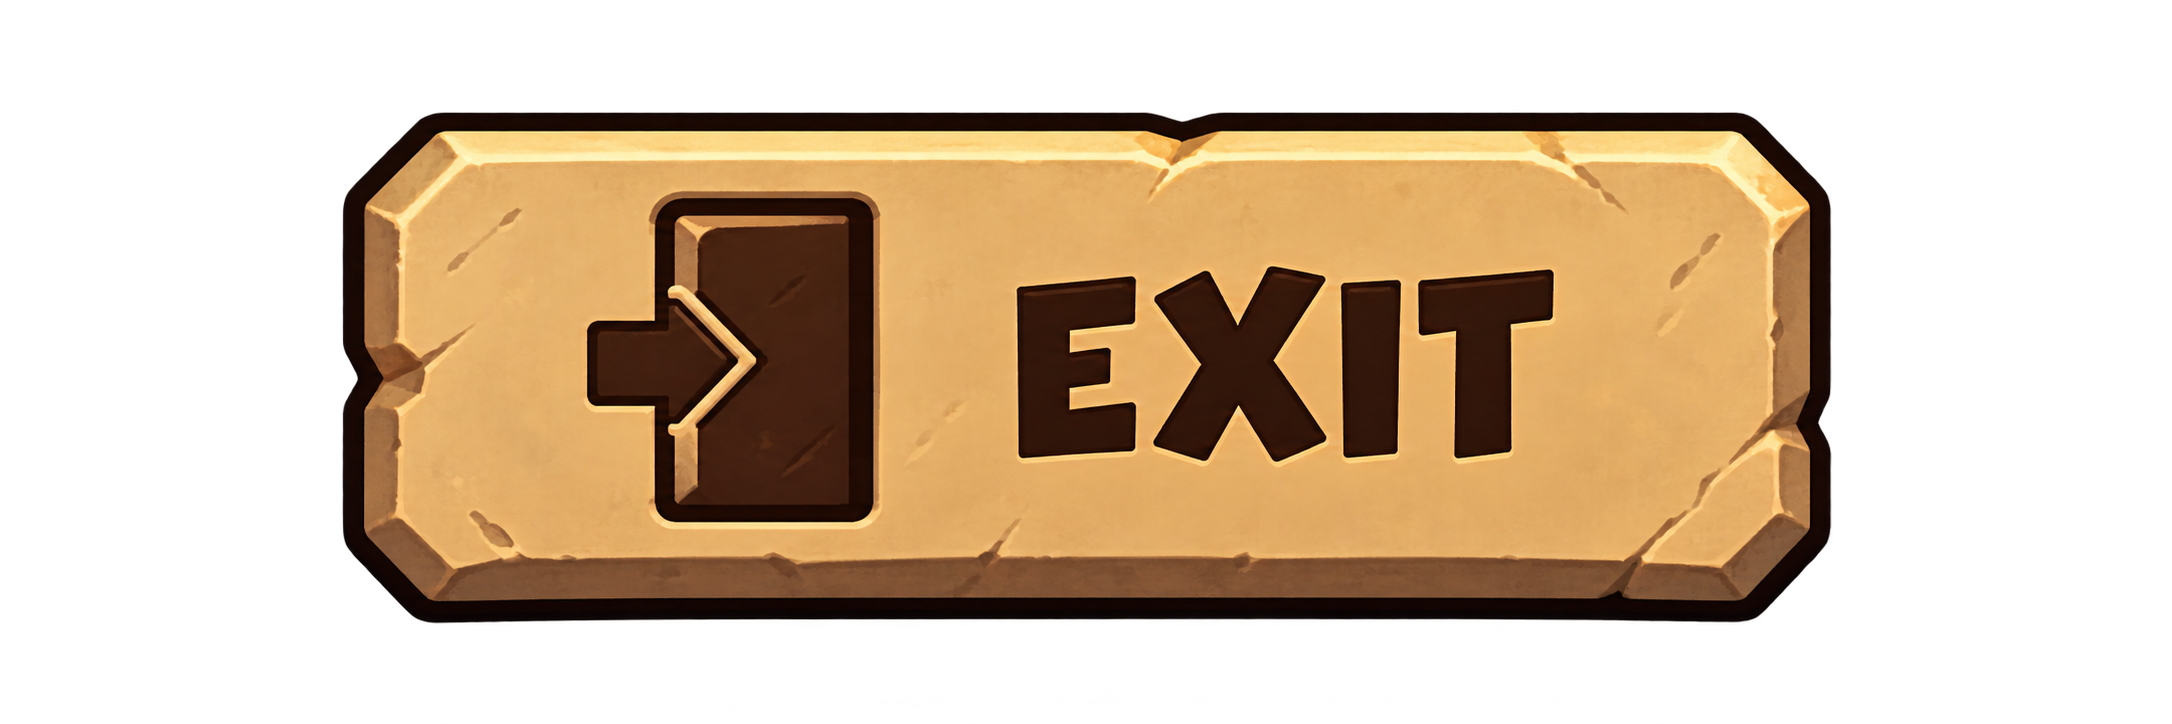
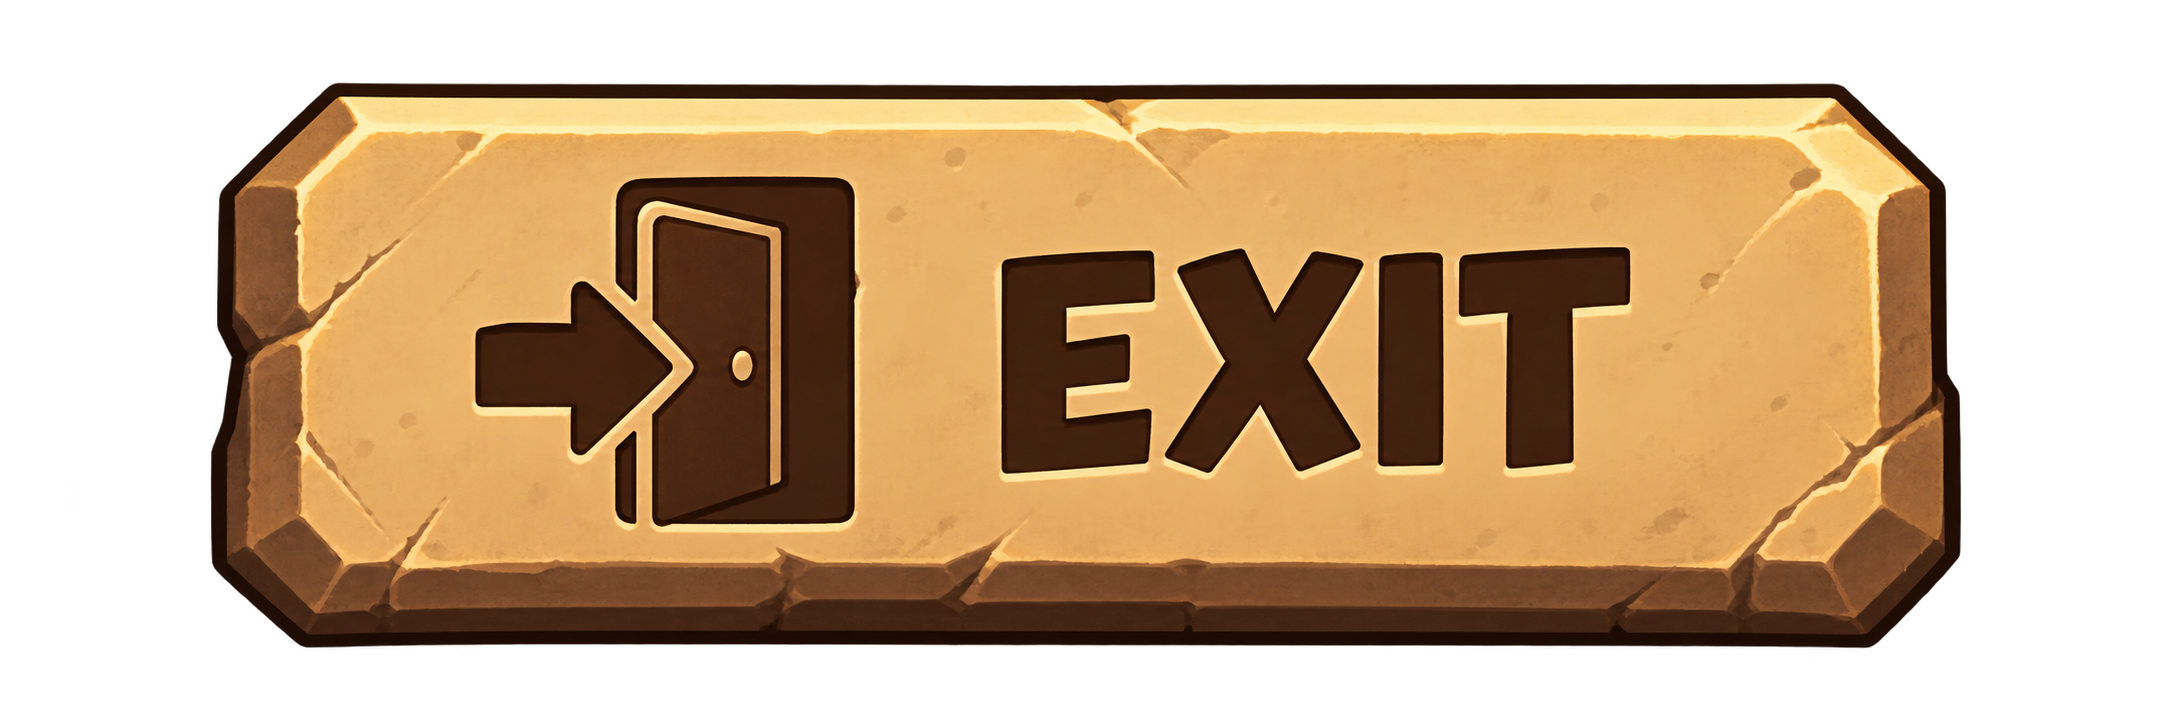
ui: add dedicated artwork for all five main-menu buttons

diff --git a/Assets/Game/UI/GameMenuController.cs b/Assets/Game/UI/GameMenuController.cs
@@ -129,9 +129,9 @@ public class GameMenuController : MonoBehaviour
             MenuTextStyle.Muted,
             new Vector2(610f, 42f));
 
-        AddButton(panel.transform, L("CONTINUE", "ПРОДОЛЖИТЬ"), new Vector2(0f, 112f), ShowLevels, new Vector2(560f, 86f), MenuButtonStyle.Highlight, "Menu/Buttons/ButtonStart");
-        AddButton(panel.transform, L("NEW CAMPAIGN", "НОВАЯ КАМПАНИЯ"), new Vector2(0f, 8f), StartNewCampaign, new Vector2(520f, 72f), MenuButtonStyle.Stone);
-        AddButton(panel.transform, L("CHAPTER SELECT", "ВЫБОР ГЛАВЫ"), new Vector2(0f, -82f), ShowLevels, new Vector2(520f, 72f), MenuButtonStyle.Stone);
+        AddButton(panel.transform, L("CONTINUE", "ПРОДОЛЖИТЬ"), new Vector2(0f, 112f), ShowLevels, new Vector2(560f, 86f), MenuButtonStyle.Highlight, "Menu/Buttons/ButtonContinue");
+        AddButton(panel.transform, L("NEW CAMPAIGN", "НОВАЯ КАМПАНИЯ"), new Vector2(0f, 8f), StartNewCampaign, new Vector2(520f, 72f), MenuButtonStyle.Stone, "Menu/Buttons/ButtonNewCampaign");
+        AddButton(panel.transform, L("CHAPTER SELECT", "ВЫБОР ГЛАВЫ"), new Vector2(0f, -82f), ShowLevels, new Vector2(520f, 72f), MenuButtonStyle.Stone, "Menu/Buttons/ButtonChapterSelect");
         AddButton(panel.transform, L("SETTINGS", "НАСТРОЙКИ"), new Vector2(0f, -172f), ShowSettingsFromMain, new Vector2(520f, 72f), MenuButtonStyle.Ghost, "Menu/Buttons/ButtonSettings");
         AddButton(panel.transform, L("EXIT", "ВЫХОД"), new Vector2(0f, -262f), QuitGame, new Vector2(520f, 68f), MenuButtonStyle.Ghost, "Menu/Buttons/ButtonExit");
 
